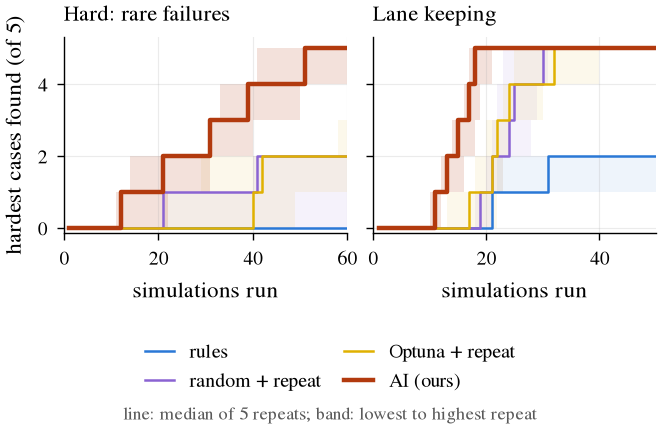
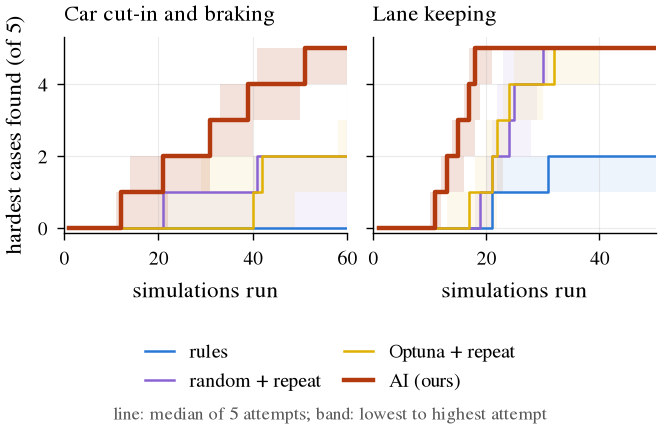
Name the hard study by what it tests (car cut-in and braking); equal attempts per method in Fig. 4
Fig. 4 shows the same first attempts for every method in a panel, so an
attempt that finishes early for one method does not tilt it.

diff --git a/paper/main.tex b/paper/main.tex
@@ -109,9 +109,9 @@
 \pending{about 0.25 page}
 \begin{itemize}
 \item Hardware: one 24\,GB GPU, two runs at once. Model: \pending{Claude version per arm}. Rollout 47\,s at 2\,Hz, 84\,s at 10\,Hz.
-\item Each method on each study: three repeats; for six methods on the hard study and lane keeping, five, and seven once the repeats queued 20 Oct finish \pending{update at the freeze}. Budgets: 48--60 runs per arm \pending{per study}.
+\item Each method on each study: three repeats; for six methods on the cut-in and braking study and on lane keeping, five, and seven once the repeats queued 20 Oct finish \pending{update at the freeze}. Budgets: 48--60 runs per arm \pending{per study}.
 \item Metrics: confirmed hardest cases at the budget; runs until the goal is met; model time per arm.
-\item Statistics: exact two-sided permutation test per pair of methods within a study, on confirmed cases (hard study) or runs to the goal (lane keeping). Planned comparisons: AI (ours) against random, Optuna and rules, Holm-corrected over those three (\texttt{harness/planned\_tests.py}); all other pairs are descriptive. With 3 repeats (the 10\,Hz studies) the smallest possible p is 0.1, so those comparisons are descriptive.
+\item Statistics: exact two-sided permutation test per pair of methods within a study, on confirmed cases (cut-in and braking) or runs to the goal (lane keeping). Planned comparisons: AI (ours) against random, Optuna and rules, Holm-corrected over those three (\texttt{harness/planned\_tests.py}); all other pairs are descriptive. With 3 repeats (the 10\,Hz studies) the smallest possible p is 0.1, so those comparisons are descriptive.
 \end{itemize}
 
 % ---------------------------------------------------------------------------
@@ -148,12 +148,11 @@
 \end{figure}
 \input{figures/table_methods.tex}
 \begin{itemize}
-\item \textbf{Main result, the three-knob study} (rare failures), five repeats, confirmed of 25: AI (ours) 24, AI first prompt 17, Optuna + AI 13, Optuna + repeat 10, random + repeat 7, rules 0. AI (ours) beats random, Optuna and rules in every pairing of repeats (exact permutation p = 0.008 each; Holm over the three planned comparisons 0.024). Only free-choosing AI arms met the goal. Table~\ref{tab:methods} also shows the hybrids (three repeats).
+\item \textbf{Main result, car cut-in and braking} (three knobs, rare failures), five repeats, confirmed of 25: AI (ours) 24, AI first prompt 17, Optuna + AI 13, Optuna + repeat 10, random + repeat 7, rules 0. AI (ours) beats random, Optuna and rules in every pairing of repeats (exact permutation p = 0.008 each; Holm over the three planned comparisons 0.024). Only free-choosing AI arms met the goal. Table~\ref{tab:methods} also shows the hybrids (three repeats).
 \item \textbf{Lane keeping} (unseen study), five repeats: every free-choosing AI arm met the goal in 17--22 runs, every random and Optuna + repeat arm in 23--40, rules never. Each AI method against each of random, Optuna and rules: exact permutation p = 0.008 (Holm over the three planned comparisons for AI (ours): 0.024).
 \item \textbf{Car scenes at 10\,Hz}, confirmed of 30: hybrid 17, AI picks 13, Optuna + AI 13, Optuna + repeat 13, random + repeat 10, rules 6 (hybrid vs rules p = 0.006).
 \item \textbf{Pedestrian at 10\,Hz}, where failures are common: every method meets the goal; Optuna + AI fastest (21 runs every repeat; rules 25, random 32).
 \item \textbf{Pattern:} Optuna alone never beats random + repeat; an AI chooser leads or ties in every study; its lead grows as failures get rarer. Hybrid is strongest where the rules' candidates are good and trails where they are not.
-\item \pending{Table I: add the hard study and lane keeping columns?}
 \end{itemize}
 
 \subsection{What the campaign found in VaVAM}

diff --git a/harness/paper_figures.py b/harness/paper_figures.py
@@ -65,7 +65,7 @@ STUDY_NAMES = {
 }
 # The discovery figure's panels.
 PANEL_NAMES = {
-    "car_conflicts_3knobs_2hz": "Hard: rare failures",
+    "car_conflicts_3knobs_2hz": "Car cut-in and braking",
     "lane_keeping": "Lane keeping",
 }
 UNSEEN = ("car_conflicts_3knobs_2hz", "lane_keeping")
@@ -140,9 +140,12 @@ def fig_discovery() -> None:
     Every other method, and the 10 Hz studies, are in Table I."""
     fig, axes = plt.subplots(1, 2, figsize=(SINGLE, 1.85), sharey=True)
     studies = {study: study_curves(study) for study in UNSEEN}
+    # The same attempts for every method: the first `shown` in replicate order,
+    # so an attempt that finished early for one method does not tilt a panel.
+    shown = {study: min(len(curves[m]) for m in FIG_METHODS) for study, curves in studies.items()}
     for ax, (study, curves) in zip(axes, studies.items()):
         for method in FIG_METHODS:
-            grid = np.array(curves[method], dtype=float)
+            grid = np.array(curves[method][:shown[study]], dtype=float)
             x = np.arange(1, grid.shape[1] + 1)
             ours = method == "llm_v2"
             ax.fill_between(x, grid.min(axis=0), grid.max(axis=0), color=COLORS[method],
@@ -158,8 +161,9 @@ def fig_discovery() -> None:
     handles, labels = axes[0].get_legend_handles_labels()
     fig.legend(handles, labels, loc="lower center", ncol=2, frameon=False,
                bbox_to_anchor=(0.5, -0.16), handlelength=1.5, columnspacing=1.2)
-    reps = min(len(curves["llm_v2"]) for curves in studies.values())
-    fig.text(0.5, -0.2, f"line: median of {reps} repeats; band: lowest to highest repeat",
+    counts = sorted(set(shown.values()))
+    reps = "--".join(map(str, (counts[0], counts[-1]))) if len(counts) > 1 else str(counts[0])
+    fig.text(0.5, -0.2, f"line: median of {reps} attempts; band: lowest to highest attempt",
              ha="center", va="bottom", fontsize=6.5, color="0.35")
     fig.tight_layout(w_pad=0.4, rect=(0, 0.06, 1, 1))
     save(fig, "fig_discovery")
@@ -442,7 +446,7 @@ def table_methods() -> str:
         r"\toprule",
         r" & \multicolumn{2}{c}{Unseen studies, 2\,Hz} & \multicolumn{2}{c}{Method studies, 10\,Hz} & \\",
         r"\cmidrule(lr){2-3}\cmidrule(lr){4-5}",
-        r" & Hard & Lane keeping & Car scenes & Pedestrian & Model \\",
+        r" & Cut-in, braking & Lane keeping & Car scenes & Pedestrian & Model \\",
         r"Method & confirmed & runs to goal & confirmed & runs to goal & s/arm \\",
         r"\midrule",
     ]
@@ -461,7 +465,7 @@ def table_methods() -> str:
         r"\end{tabular}",
         r"\\[2pt]\parbox{\columnwidth}{\scriptsize Confirmed: hardest settings confirmed by "
         r"repeats, summed over repeats (5 per repeat). Runs to goal: kept runs until all 5 were "
-        r"confirmed, median (range); `never' if no repeat got there. Hard: cut-in and car ahead, "
+        r"confirmed, median (range); `never' if no repeat got there. Cut-in, braking: a car cutting in or braking ahead, "
         r"three knobs, rare failures. Car scenes: car cutting in and car ahead braking. "
         f"Repeats per arm: unseen studies {'--'.join(map(str, (reps[0], reps[-1])))}, "
         r"10\,Hz studies 3. Contacts with a car the retiming held still are not counted. "

diff --git a/figures/paper/table_methods.tex b/figures/paper/table_methods.tex
@@ -7,7 +7,7 @@
 \toprule
  & \multicolumn{2}{c}{Unseen studies, 2\,Hz} & \multicolumn{2}{c}{Method studies, 10\,Hz} & \\
 \cmidrule(lr){2-3}\cmidrule(lr){4-5}
- & Hard & Lane keeping & Car scenes & Pedestrian & Model \\
+ & Cut-in, braking & Lane keeping & Car scenes & Pedestrian & Model \\
 Method & confirmed & runs to goal & confirmed & runs to goal & s/arm \\
 \midrule
 rules & 0/25 & never & 6/30 & 25 (25) & -- \\
@@ -20,5 +20,5 @@ AI (ours) & 24/25 & 18 (17--21) & -- & -- & 88 \\
 hybrid, revised prompt & 7/15 & 2 of 3 reached, 39--43 & -- & -- & 118 \\
 \bottomrule
 \end{tabular}
-\\[2pt]\parbox{\columnwidth}{\scriptsize Confirmed: hardest settings confirmed by repeats, summed over repeats (5 per repeat). Runs to goal: kept runs until all 5 were confirmed, median (range); `never' if no repeat got there. Hard: cut-in and car ahead, three knobs, rare failures. Car scenes: car cutting in and car ahead braking. Repeats per arm: unseen studies 3--5, 10\,Hz studies 3. Contacts with a car the retiming held still are not counted. Model: median seconds of model calls per arm.}
+\\[2pt]\parbox{\columnwidth}{\scriptsize Confirmed: hardest settings confirmed by repeats, summed over repeats (5 per repeat). Runs to goal: kept runs until all 5 were confirmed, median (range); `never' if no repeat got there. Cut-in, braking: a car cutting in or braking ahead, three knobs, rare failures. Car scenes: car cutting in and car ahead braking. Repeats per arm: unseen studies 3--5, 10\,Hz studies 3. Contacts with a car the retiming held still are not counted. Model: median seconds of model calls per arm.}
 \end{table}

diff --git a/paper/figures/table_methods.tex b/paper/figures/table_methods.tex
@@ -7,7 +7,7 @@
 \toprule
  & \multicolumn{2}{c}{Unseen studies, 2\,Hz} & \multicolumn{2}{c}{Method studies, 10\,Hz} & \\
 \cmidrule(lr){2-3}\cmidrule(lr){4-5}
- & Hard & Lane keeping & Car scenes & Pedestrian & Model \\
+ & Cut-in, braking & Lane keeping & Car scenes & Pedestrian & Model \\
 Method & confirmed & runs to goal & confirmed & runs to goal & s/arm \\
 \midrule
 rules & 0/25 & never & 6/30 & 25 (25) & -- \\
@@ -20,5 +20,5 @@ AI (ours) & 24/25 & 18 (17--21) & -- & -- & 88 \\
 hybrid, revised prompt & 7/15 & 2 of 3 reached, 39--43 & -- & -- & 118 \\
 \bottomrule
 \end{tabular}
-\\[2pt]\parbox{\columnwidth}{\scriptsize Confirmed: hardest settings confirmed by repeats, summed over repeats (5 per repeat). Runs to goal: kept runs until all 5 were confirmed, median (range); `never' if no repeat got there. Hard: cut-in and car ahead, three knobs, rare failures. Car scenes: car cutting in and car ahead braking. Repeats per arm: unseen studies 3--5, 10\,Hz studies 3. Contacts with a car the retiming held still are not counted. Model: median seconds of model calls per arm.}
+\\[2pt]\parbox{\columnwidth}{\scriptsize Confirmed: hardest settings confirmed by repeats, summed over repeats (5 per repeat). Runs to goal: kept runs until all 5 were confirmed, median (range); `never' if no repeat got there. Cut-in, braking: a car cutting in or braking ahead, three knobs, rare failures. Car scenes: car cutting in and car ahead braking. Repeats per arm: unseen studies 3--5, 10\,Hz studies 3. Contacts with a car the retiming held still are not counted. Model: median seconds of model calls per arm.}
 \end{table}
